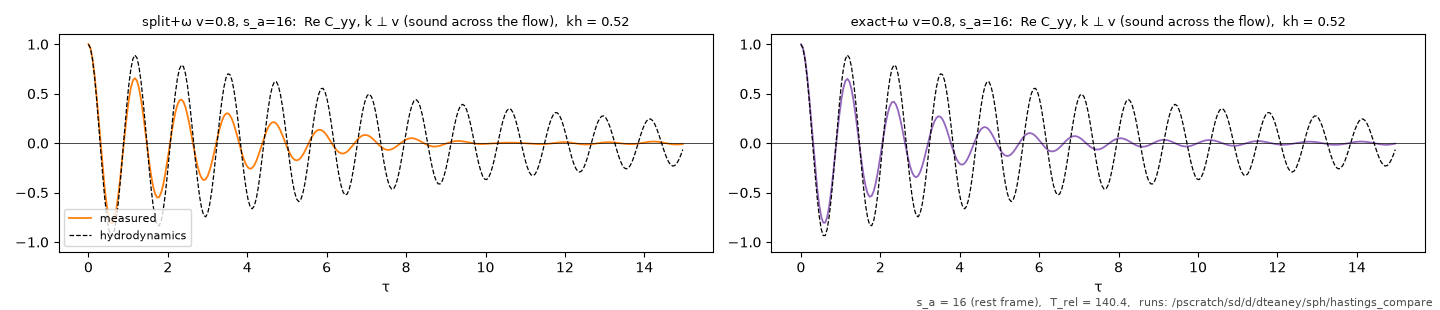
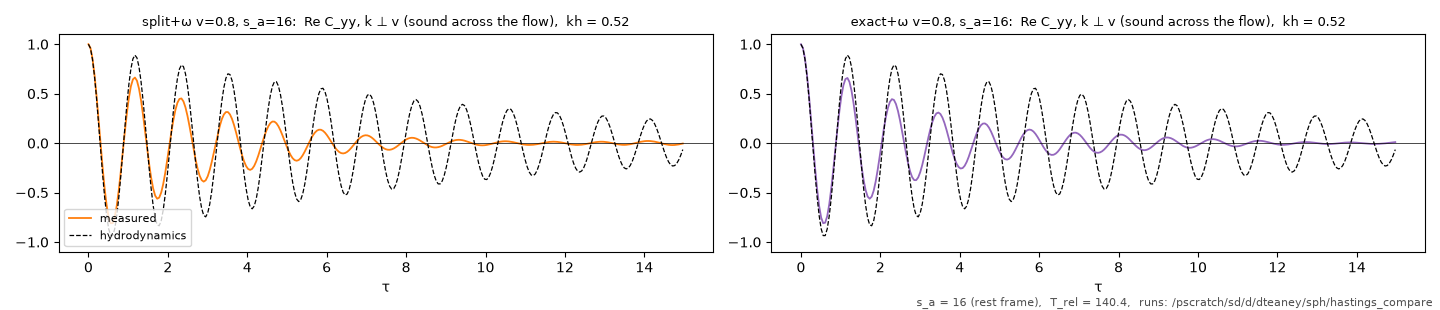
boost_analysis: runs with different time steps averaged on one lag grid (FIX: the grid of the first run was used for all); the '36% fast sound' of S-scheme+omega at s_a = 16 was this. CMP16, XCMP16 redone; split_dynamics sec:lagfix, tables and text corrected

diff --git a/docs/split_dynamics.tex b/docs/split_dynamics.tex
@@ -393,9 +393,9 @@ $14.10$ in that run).  384 + 128 runs, 4 interactive nodes for 35 and 15 minutes
 \item \emph{The energy} (\Fig{fig:cmpenergy}).  $\Delta H/H$ at $t=100$: at rest $3$--$9\times10^{-5}$ at $s_a=16$ and $1$--$3\times10^{-5}$ at $s_a=54$; in
   motion $\le10^{-6}$; alike for the four.  The positional counterterm does not make $H$ drift.
 \item \emph{Advection} (\Fig{fig:cmpfit}).  The shear mode along the flow moves with $\Omega/k=0.800$--$0.809$ ($\pm0.002$) for all four (hydrodynamics 0.8).
-\item \emph{Damping} (\Fig{fig:cmpfit}).  The shear damping is $\Gamma/\Gamma_{\rm hydro}=3.0$--$4.2$ at $s_a=54$ and $4.0$--$7.6$ at $s_a=16$, the
-  over-damping of \Sect{sec:results} for every Hamiltonian.  At $s_a=54$ the four agree within the errors.  At $s_a=16$ at rest the S-scheme $+\,\omega$ is the
-  most damped ($6.4$--$7.6$ at $kh=0.52$, against $5.0$--$5.8$ for split and $4.4$--$5.1$ for split$+\omega$).
+\item \emph{Damping} (\Fig{fig:cmpfit}).  The shear damping is $\Gamma/\Gamma_{\rm hydro}=3.0$--$4.2$ at $s_a=54$ and $3.8$--$6.2$ at $s_a=16$, the
+  over-damping of \Sect{sec:results} for every Hamiltonian.  At $s_a=54$ the four agree within the errors.  At $s_a=16$ at rest, $kh=0.52$ (along / across):
+  split $5.0$ / $5.8$, split$+\omega$ $4.7$ / $5.4$, S-scheme $6.2$ / $5.4$, S-scheme$+\omega$ $5.8$ / $5.0$ ($\pm0.2$--$0.4$).
 \item \emph{Equal-time spectra against the susceptibilities} (\Fig{fig:cmpeq}).  At rest $C_{AA}(k,0)/\chi_{AA}$ at the smallest $k$ is $0.96$--$1.12$ for all
   four at both $s_a$; the positional counterterm does not move it beyond the errors (it changes the mean energy and pressure of the fluid by the
   percent of the tables of level 2, not the fluctuations at small $k$).  In motion along the flow the errors are 10--20\%.
@@ -409,19 +409,16 @@ $14.10$ in that run).  384 + 128 runs, 4 interactive nodes for 35 and 15 minutes
   lags hydrodynamics by a tenth of a period; with $\omega$ it is $0.998$--$0.999$ at rest and $0.991$--$0.994$ across the flow.  The positional counterterm is a
   modest improvement that keeps the sound in phase at $s_a=54$: the speed of sound of the fluid is that of the equation of state once the offset of the
   positions (level 2) is removed.  Along the flow the Doppler shift dominates, $\omega/k$ depends on $c_s$ only through $(1-v^2)$, and all four are within
-  $0.15\%$.  At $s_a=16$ the four are within 1\% of hydrodynamics, with errors 2--5 times larger, and $\omega$ makes no difference there, except one entry:
-  S-scheme$+\omega$ at rest gives $1.360\pm0.009$.  That is a real effect, not a failure of the estimator: the correlator (\Fig{fig:cmpcorr16}, bottom right)
-  oscillates cleanly at a frequency 36\% above hydrodynamics from the first period on.  The sound of that Hamiltonian at $s_a=16$ at rest is too fast; split$+\omega$
-  at the same state is not ($1.01\pm0.02$), nor is S-scheme$+\omega$ in motion, where the lab entropy per particle is $\gamma s_a=26.7$.  The cause is not
-  yet known (at $s_a=16$ the one-loop $\omega$ no longer describes the offset of the positions, \texttt{sscheme\_plan.tex}, level 2).
-\item \emph{The correlators} (Figs.~\ref{fig:cmpcorr16}--\ref{fig:cmpcorr16c} and \ref{fig:cmpcorr54}--\ref{fig:cmpcorr54c}) look the same for the four Hamiltonians at each $s_a$ and velocity, except the sound of S-scheme$+\omega$ at $s_a=16$ at rest (above).
+  $0.15\%$.  At $s_a=16$ the four are within 2\% of hydrodynamics: along the flow within $0.2\%$, at rest and across the flow $1.007$--$1.018$, and there
+  $\omega$ makes the sound slightly faster (by about 1\%) for both schemes.
+\item \emph{The correlators} (Figs.~\ref{fig:cmpcorr16}--\ref{fig:cmpcorr16c} and \ref{fig:cmpcorr54}--\ref{fig:cmpcorr54c}) look the same for the four Hamiltonians at each $s_a$ and velocity.
 \end{itemize}
 \begin{table}
 \caption{Campaign \texttt{hastings\_compare} (commits \texttt{d3aacca}, split lines \texttt{d7d26ad}), the smallest $k$ ($kh=0.52$): the frequency of the sound
 mode from the zero crossings of its normalized correlator, over the same estimator applied to the prediction of linearized hydrodynamics at the bath
 ($\eta/s=0.2$); errors by jackknife over the 16 runs (\texttt{examples/boost\_analysis.jl}, groups \texttt{CMP16}, \texttt{CMP54}).  Along the flow:
 $\mathrm{Re}\,C_{xx}(k\hat x)$ ($\omega_{\rm hydro}/k=0.963$); across: $\mathrm{Re}\,C_{yy}(k\hat y)$ ($\omega_{\rm hydro}/k=0.515$); at rest
-$\mathrm{Re}\,C_{xx}(k\hat x)$ ($\omega_{\rm hydro}/k=0.707=c_s$).  $^\dagger$\,a real excess, see the text.}
+$\mathrm{Re}\,C_{xx}(k\hat x)$ ($\omega_{\rm hydro}/k=0.707=c_s$).  The rows at $s_a=16$ are those of the corrected analysis (\Sect{sec:lagfix}).}
 \label{tab:cmpsound}
 \begin{center}
 \begin{tabular}{llcccc}
@@ -432,9 +429,9 @@ $s_a$ & correlator & split & split$+\omega$ & S-scheme & S-scheme$+\omega$ \\
 54 & $v_0=0.8$, along  & $1.0014(3)$  & $1.0009(5)$  & $1.0003(4)$  & $1.0008(4)$ \\
 54 & $v_0=0.8$, across & $0.9823(16)$ & $0.9943(16)$ & $0.9829(15)$ & $0.9914(20)$ \\
 \midrule
-16 & at rest           & $1.0048(42)$ & $1.010(22)$  & $1.0094(23)$ & $1.360(9)^\dagger$ \\
-16 & $v_0=0.8$, along  & $1.0020(5)$  & $1.0018(18)$ & $1.0112(75)$ & $1.0030(20)$ \\
-16 & $v_0=0.8$, across & $1.0017(40)$ & $1.0118(48)$ & $1.0118(61)$ & $1.0169(37)$ \\
+16 & at rest           & $1.0065(27)$ & $1.0184(23)$ & $1.0094(23)$ & $1.0173(18)$ \\
+16 & $v_0=0.8$, along  & $1.0020(5)$  & $1.0013(4)$  & $1.0007(6)$  & $1.0011(4)$ \\
+16 & $v_0=0.8$, across & $1.0017(40)$ & $1.0146(35)$ & $1.0034(32)$ & $1.0156(33)$ \\
 \bottomrule
 \end{tabular}
 \end{center}
@@ -599,12 +596,11 @@ Monte Carlo) and smoke runs (\texttt{sscheme\_plan.tex}, X1--X4).
   $+2.7\times10^{-5}$; in motion $\le10^{-6}$ for both.  The rise at $s_a=16$ is the one difference in the conservation of $H$; its cause is not known
   (the smallest particles, $S_{\rm t}\approx1$, have a large $T_a$ and set the stiffest time scale of the ideal step).
 \item \emph{The sound} (Table~\ref{tab:xsound}).  At $s_a=54$ both are in phase with hydrodynamics within 0.2\% at rest (the positional counterterm, as in
-  \Sect{sec:cmp}).  At $s_a=16$ at rest the exact form gives $1.018\pm0.004$; the measure form$+\omega$ gave $1.36$ there (Table~\ref{tab:cmpsound}), so
-  that anomaly belongs to the measure form, not to $\omega$.  The sound of the exact form at $s_a=16$ also rings longer than that of split$+\omega$
-  (\Fig{fig:xcorr16}, second row), whose correlator is irregular after $\tau\approx2$.
+  \Sect{sec:cmp}).  At $s_a=16$ the exact form is in phase along the flow ($1.0001\pm0.0004$) and $2.3$--$2.4\%$ fast at rest and across it, against
+  $1.5$--$1.8\%$ for split$+\omega$; the two sounds look alike (\Fig{fig:xcorr16}, second row).
 \item \emph{Advection and damping} (\Fig{fig:xfit}).  $\Omega/k=0.799$--$0.806$ for both.  The shear damping is $\Gamma/\Gamma_{\rm hydro}=2.9$--$3.8$ for the
   exact form and $3.1$--$3.9$ for split at $s_a=54$ at rest and across the flow; at $s_a=16$ at rest the exact form is more damped at the smallest $k$,
-  $6.1$--$6.2\pm0.4$ against $4.4$--$5.1\pm0.3$, as the measure form$+\omega$ was (\Sect{sec:cmp}); in motion along the flow the two agree within the
+  $6.2$--$6.3\pm0.4$ against $4.7$--$5.4\pm0.3$, as the S-scheme without $\omega$ ($6.2$ / $5.4$, \Sect{sec:cmp}); in motion along the flow the two agree within the
   errors ($5.4$, and $6.1\pm0.6$ against $4.9\pm0.8$ at $s_a=54$).
 \item \emph{Equal-time against the susceptibilities} (\Fig{fig:xeq}).  At rest at the smallest $k$, $0.96$--$1.10$ for the exact form and $0.96$--$1.12$ for split,
   within the errors of each other.
@@ -612,7 +608,7 @@ Monte Carlo) and smoke runs (\texttt{sscheme\_plan.tex}, X1--X4).
   \texttt{sscheme\_plan.tex}, X5).  The raw error at $s_a=16$, $h/a=2$, is smaller for the exact form: $P$ $+2.96\%$, $E$ $+3.73\%$, against $+4.36\%$, $+5.58\%$
   for split$+\omega$; at $s_a\ge54$ the two agree ($|P/p-1|\le0.22\%$, $|E/e-1|\le0.04\%$).
 \end{itemize}
-So the exact form works in the dynamics as well as split$+\omega$ and is the better of the two at $s_a=16$ in its equation of state and in its sound.
+So the exact form works in the dynamics as well as split$+\omega$ and is the better of the two at $s_a=16$ in its equation of state; its sound is as good.
 Its costs at $s_a=16$: a slow rise of $H$ ($2\times10^{-4}$ by $t=100$), lower acceptances of the stochastic step ($0.84$, $0.41$ against $0.93$, $0.53$), and
 more damping of the shear mode at rest.  At $s_a=54$ the two cannot be told apart.
 
@@ -630,9 +626,9 @@ $s_a$ & correlator & split$+\omega$ & exact$+\omega$ \\
 54 & $v_0=0.8$, along  & $1.0009(5)$  & $1.0008(3)$ \\
 54 & $v_0=0.8$, across & $0.9943(16)$ & $0.9926(14)$ \\
 \midrule
-16 & at rest           & $1.010(22)$  & $1.0178(42)$ \\
-16 & $v_0=0.8$, along  & $1.0018(18)$ & $0.9964(27)$ \\
-16 & $v_0=0.8$, across & $1.0118(48)$ & $1.0176(73)$ \\
+16 & at rest           & $1.0184(23)$ & $1.0234(22)$ \\
+16 & $v_0=0.8$, along  & $1.0013(4)$  & $1.0001(4)$ \\
+16 & $v_0=0.8$, across & $1.0146(35)$ & $1.0244(43)$ \\
 \bottomrule
 \end{tabular}
 \end{center}
@@ -717,4 +713,22 @@ $\mathrm{Re}\,C_{EE}$; across it the sound $\mathrm{Re}\,C_{yy}(k\hat y)$ and th
 \label{fig:xcorr54}
 \end{figure}
 \clearpage
+%=============================================================================
+\section{Correction of the analysis: runs with different time steps (2026-11-26)}
+\label{sec:lagfix}
+
+The time step of a run is set once, at its start, from the initial state, so at $s_a\le16$ the runs of one set do not all have the same step (in
+\texttt{hastings\_compare} 1 to 7 of 16 runs per set at $s_a=16$; none at $s_a=54$).  \nolinkurl{examples/boost_analysis.jl} correlated each run on its
+own lag grid, of spacing $\Delta\tau=n_s\,\delta t_{\rm rec}$ with $n_s={\rm round}(0.05/\delta t_{\rm rec})$, but averaged them on the grid of the first
+run.  A run with another step was thereby put on a time axis compressed or stretched by the ratio of the spacings.  In the set S-scheme$+\omega$ at
+$s_a=16$ at rest the first run had the smaller step ($\Delta\tau=0.0424$ against $0.0566$ for 14 of the 16 runs), so the sound of 14 runs was drawn
+$0.0566/0.0424=1.33$ times too fast: the ``36\% fast sound'' of the earlier version of this note (Table~\ref{tab:cmpsound}) was this, not the
+Hamiltonian.  Since this version every run is put on the grid of the most common spacing, a run with another spacing correlated at every record and
+interpolated (cubic, error $<10^{-4}$ for the sound at $kh=0.52$); sets whose runs share one step are unchanged.  The figures and tables of $s_a=16$ in
+\Sect{sec:cmp} and \Sect{sec:exact} are those of the corrected analysis.  Changes: the sound at rest of S-scheme$+\omega$ $1.360\to1.017$, of
+split$+\omega$ $1.010(22)\to1.018(2)$ (7 runs of 16 moved), of the exact form $1.018\to1.023$; the shear damping at $s_a=16$ at rest moves by up to
+$1.5$ (the range $4.0$--$7.6$ becomes $3.8$--$6.2$), and the over-damping at $s_a=16$ stays.  The earlier sections of this note (campaign
+\texttt{hastings\_bath}, 3 to 5 of 16 runs per set at $s_a=16$) and \nolinkurl{inverse_moment.tex} (campaign \texttt{hastings}, $s_a=4$, 12, 16, where
+nearly every run has its own step) used the old analysis and are not yet redone.
+
 \end{document}

diff --git a/docs/sscheme_plan.tex b/docs/sscheme_plan.tex
@@ -1391,9 +1391,9 @@ split$+\omega$ against the exact form$+\omega$ (\nolinkurl{split_dynamics.tex}, 
   Errors $\le0.09\%$.  At $s_a=16$ the exact form's raw error is 1.4--1.9 points smaller than split$+\omega$'s; what is left after its single particle
   (the empty cell and the light cone, 3\%) is $\le0.74\%$.  At $s_a\ge54$ the two agree.
 \item X6, the dynamics (interactive 62049405, 23 minutes on 4 nodes; \nolinkurl{split_dynamics.tex}, ``The exact form of the S-scheme against split'').  The
-  exact form$+\omega$ samples its own equilibrium as split$+\omega$ does; the sound at $s_a=16$ at rest is in phase ($1.018\pm0.004$, where the measure
-  form$+\omega$ gave 1.36); $\Delta H/H$ rises slowly at $s_a=16$ at rest ($+1.9\times10^{-4}$ by $t=100$, four times split$+\omega$), and the shear mode at rest at
-  $s_a=16$ is more damped (6.1 against 4.4--5.1 times hydrodynamics); at $s_a=54$ the two cannot be told apart.  In the HMC chains at $s_a=16$ some trajectories
+  exact form$+\omega$ samples its own equilibrium as split$+\omega$ does; the sound at $s_a=16$ at rest is $1.023\pm0.002$ times hydrodynamics, as split$+\omega$
+  ($1.018$; the ``1.36'' of the measure form$+\omega$ was an error of the analysis, \nolinkurl{split_dynamics.tex}, ``Correction of the analysis''); $\Delta H/H$ rises slowly at $s_a=16$ at rest ($+1.9\times10^{-4}$ by $t=100$, four times split$+\omega$), and the shear mode at rest at
+  $s_a=16$ is more damped (6.2--6.3 against 4.7--5.4 times hydrodynamics); at $s_a=54$ the two cannot be told apart.  In the HMC chains at $s_a=16$ some trajectories
   leave the domain and are rejected (9 of 16 chains at rest, 4 of 16 in motion have one; acceptance 0.98), none at $s_a=54$.
 \end{itemize}
 

diff --git a/nersc/LOG.md b/nersc/LOG.md
@@ -1213,3 +1213,14 @@ note in `docs/` with the tables and figures.
   The owner prunes on the laptop after merging sscheme-measure into main. Also remove SPH_RENORM=1 (owner: not consistent with one loop; = measure form with beta = b, Delta^H = 0, no N ln(gamma V), no
   sound term); SPH_RENORM=0 (tree level) stays.
   Details: docs/sscheme_plan.tex, sec:prune. No campaign pending; the non-conformal beta run (5-7 nh) waits for the choice of beta.
+
+## Analysis bug: runs with different time steps (2026-11-26)
+- examples/boost_analysis.jl averaged the runs of a set on the lag grid of the FIRST run; runs whose step differs (the step is set at the start of
+  each run; common at s_a <= 16) were put on a wrong time axis. The "36% fast sound" of S-scheme+omega at s_a = 16 at rest (hastings_compare) was
+  this: its first run (r501, dt 0.0053) had lag spacing 0.0424 against 0.0566 for 14 of 16 runs, ratio 1.33. FIX: all runs on the grid of the
+  most common spacing, others correlated at every record and interpolated (cubic); sets with one step unchanged.
+- Redone: CMP16, XCMP16 (split_dynamics.tex sec:lagfix, tab:cmpsound, tab:xsound). Sound at rest S-scheme+omega 1.360 -> 1.0173(18), split+omega
+  1.010(22) -> 1.0184(23), exact+omega 1.0178 -> 1.0234(22); shear damping at s_a = 16 4.0-7.6 -> 3.8-6.2 (over-damping stays).
+- NOT yet redone, affected: hastings_bath s_a = 16 (3-5 of 16 runs per set; earlier sections of split_dynamics.tex) and campaign hastings
+  (s_a = 4, 12, 16; nearly every run its own step; docs/inverse_moment.tex stage 2 and hastings_low). s_a >= 54 sets have one step.
+
